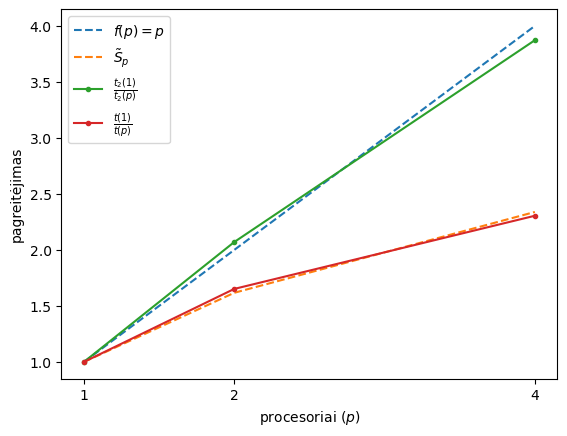
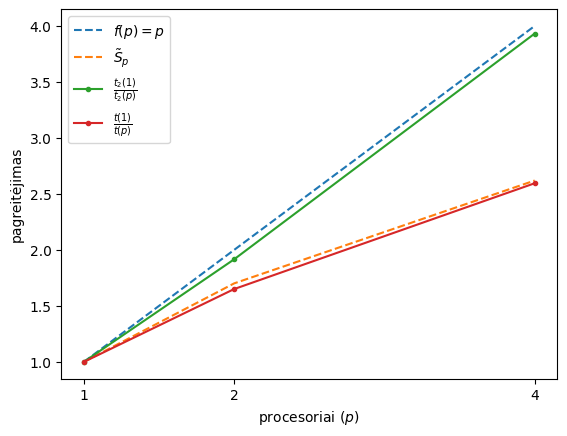
update pp task 1

diff --git a/parallel-programming/task-1/flpenum.cpp b/parallel-programming/task-1/flpenum.cpp
@@ -2,17 +2,14 @@
 #include <cmath>
 #include <time.h>
 #include <sys/time.h>
-// #include <omp.h>
-
-#define NUM_OF_THREADS 2
 
 using namespace std;
 
 //===== Globalus kintamieji ===================================================
 
-int numDP = 5500; // Vietoviu skaicius (demand points, max 10000)
+int numDP = 5000; // Vietoviu skaicius (demand points, max 10000)
 int numPF = 5;	  // Esanciu objektu skaicius (preexisting facilities)
-int numCL = 50;	  // Kandidatu naujiems objektams skaicius (candidate locations)
+int numCL = 55;	  // Kandidatu naujiems objektams skaicius (candidate locations)
 int numX = 3;	  // Nauju objektu skaicius
 
 double **demandPoints;	 // Geografiniai duomenys
@@ -35,8 +32,6 @@ int increaseX(int *X, int index, int maxindex);
 
 int main()
 {
-
-	// omp_set_num_threads(1);
 
 	loadDemandPoints();			// Duomenu nuskaitymas is failo
 	double t_start = getTime(); // Algoritmo vykdymo pradzios laikas
@@ -140,7 +135,6 @@ double evaluateSolution(int *X)
 	int bestPF;
 	int bestX;
 	double d;
-	// #pragma omp parallel for reduction(+:U, totalU) num_threads(NUM_OF_THREADS) shared(demandPoints, X, numPF, numDP, numX) private(bestPF, bestX, d) schedule(static)
 	for (int i = 0; i < numDP; i++)
 	{
 		totalU += demandPoints[i][2];

diff --git a/parallel-programming/task-1/flpenum-1.cpp b/parallel-programming/task-1/flpenum-1.cpp
@@ -4,15 +4,15 @@
 #include <sys/time.h>
 #include <omp.h>
 
-#define NUM_OF_THREADS 1
+#define NUM_OF_THREADS 4
 
 using namespace std;
 
 //===== Globalus kintamieji ===================================================
 
-int numDP = 5500; // Vietoviu skaicius (demand points, max 10000)
+int numDP = 5000; // Vietoviu skaicius (demand points, max 10000)
 int numPF = 5;	  // Esanciu objektu skaicius (preexisting facilities)
-int numCL = 50;	  // Kandidatu naujiems objektams skaicius (candidate locations)
+int numCL = 55;	  // Kandidatu naujiems objektams skaicius (candidate locations)
 int numX = 3;	  // Nauju objektu skaicius
 
 double **demandPoints;	 // Geografiniai duomenys

diff --git a/parallel-programming/task-1/flpenum-2.cpp b/parallel-programming/task-1/flpenum-2.cpp
@@ -10,9 +10,9 @@ using namespace std;
 
 //===== Globalus kintamieji ===================================================
 
-int numDP = 5500; // Vietoviu skaicius (demand points, max 10000)
+int numDP = 5000; // Vietoviu skaicius (demand points, max 10000)
 int numPF = 5;	  // Esanciu objektu skaicius (preexisting facilities)
-int numCL = 50;	  // Kandidatu naujiems objektams skaicius (candidate locations)
+int numCL = 55;	  // Kandidatu naujiems objektams skaicius (candidate locations)
 int numX = 3;	  // Nauju objektu skaicius
 
 double **demandPoints;	 // Geografiniai duomenys

diff --git a/parallel-programming/task-1/graph-2.py b/parallel-programming/task-1/graph-2.py
@@ -7,15 +7,15 @@ import numpy as np
 ps = np.array([1, 2, 4])
 
 t_1 = np.average([
-  [4.2897, 4.05183, 4.07159],
-  [1.90986, 2.04499, 2.1479],
-  [1.03414, 1.0053, 1.03196]
+  [3.74426, 4.5179, 4.48975],
+  [2.07918, 1.9611, 2.03437],
+  [1.22207, 1.16934, 1.14002]
 ], axis=1)
 
 t_2 = np.average([
-  [14.7818, 15.2255, 14.4146],
-  [6.27518, 6.54402, 8.04437],
-  [3.83722, 3.78994, 3.76172]
+  [19.3091, 21.1846, 19.3564],
+  [9.96903, 9.79868, 10.0692],
+  [5.86876, 5.58835, 5.13483]
 ], axis=1)
 
 linear = ps

diff --git a/parallel-programming/task-1/graph-1.py b/parallel-programming/task-1/graph-1.py
@@ -8,15 +8,15 @@ def S(alpha, beta, p):
 
 ps = np.array([1, 2, 4])
 t_1 = np.average([
-  5.06828,
-  5.29663,
-  4.43938
+  3.74426,
+  4.5179,
+  4.48975
 ])
 
 t_2 = np.average([
-  [15.8976, 15.1475, 16.6864],
-  [8.21124, 7.61354, 7.22827],
-  [4.15409, 3.86757, 4.30398]
+  [19.3091, 21.1846, 19.3564],
+  [11.1395, 9.84482, 10.2508],
+  [5.04371, 5.05861, 5.11854]
 ], axis=1)
 
 alpha = t_1 / (t_1 + t_2[0])

diff --git a/parallel-programming/task-1/README.md b/parallel-programming/task-1/README.md
@@ -6,7 +6,7 @@
 
 | numDP | numCL |
 | :---: | :---: |
-| 5000  |  50   |
+| 5000  |  55   |
 
 ### Teorinio pagreitėjimo vertinimas
 
